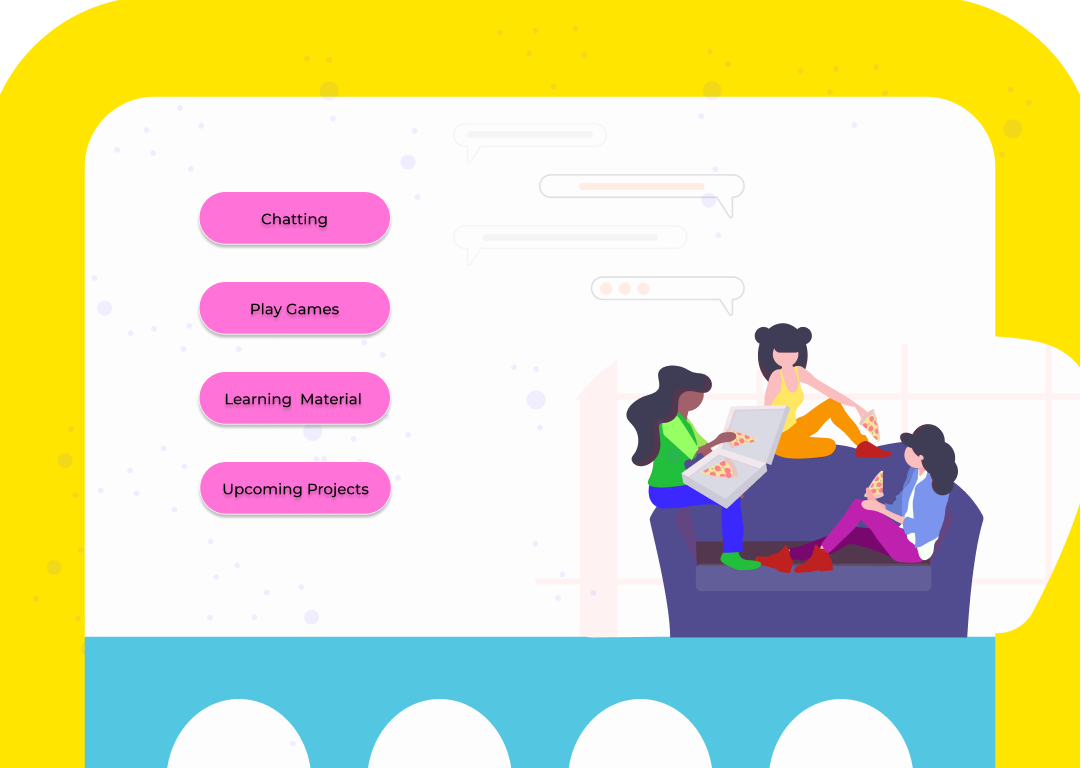
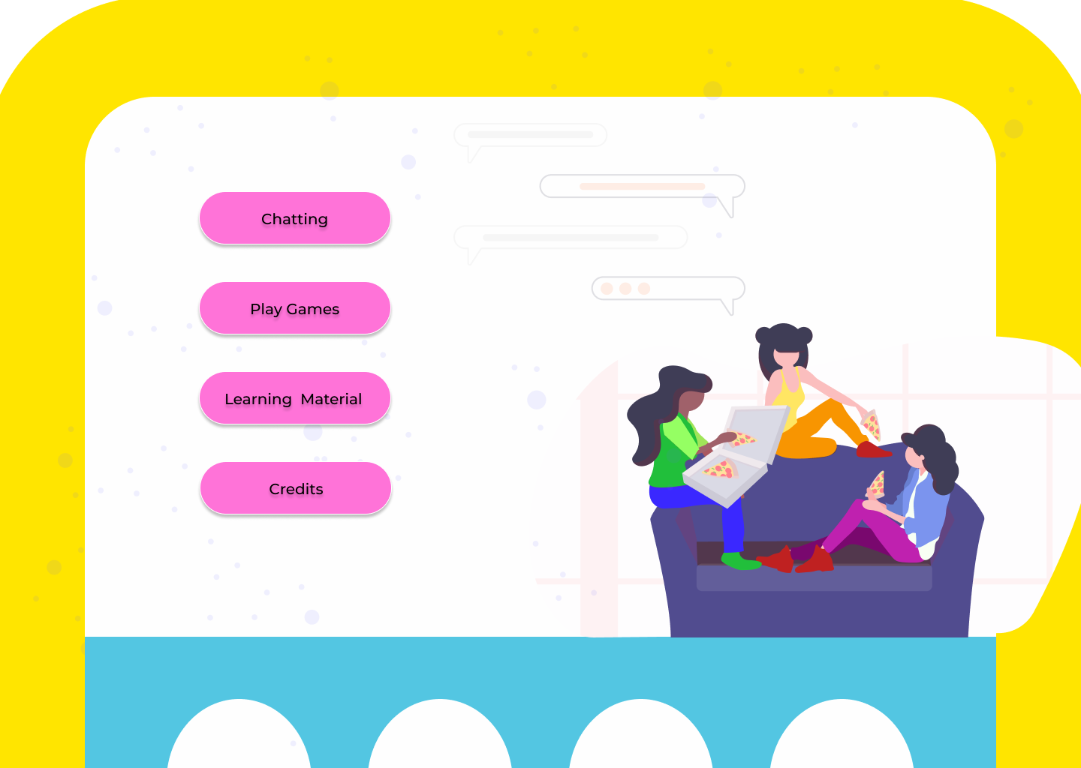
Credits in the clubhouse

diff --git a/student/index.js b/student/index.js
@@ -487,7 +487,7 @@ async function main() {
 
           add([
             text(
-                "In this demo you\ncan't buy items,\nyou already have\nall items in your\ninventory.",
+                "In this demo you\ncan't buy anything on the market.\nBut do not worry!\nYou already own\nevery item 2 times.",
                 48,
                 { width: Math.round((1440 - padding * 2) / scaleDown) },
             ),
@@ -518,8 +518,14 @@ async function main() {
 
   scene('club-house', () => {
     const rectangle = add([
-      rect(300 / scaleDown, 500 / scaleDown),
+      rect(300 / scaleDown, 375 / scaleDown),
       pos(Math.round(230 / scaleDown), Math.round(200 / scaleDown)),
+      color(0, 0, 0),
+      origin('topleft'),
+    ]);
+    const rectangle2 = add([
+      rect(300 / scaleDown, 125 / scaleDown),
+      pos(Math.round(230 / scaleDown), Math.round(575 / scaleDown)),
       color(0, 0, 0),
       origin('topleft'),
     ]);
@@ -550,6 +556,7 @@ async function main() {
     });
 
     var stateMessage = true;
+    var stateMessage2 = true;
     rectangle.action(() => {
       // console.log(board.pos)
       // console.log('Testtt');
@@ -569,7 +576,7 @@ async function main() {
           const padding = 100;
 
           add([
-            text('In this demo the\nclub house is not\nfinished.', 48, {
+            text('This function is\nlocked in this\ndemo.', 48, {
               width: Math.round((1440 - padding * 2) / scaleDown),
             }),
             pos(Math.round(150 / scaleDown), Math.round(300 / scaleDown)),
@@ -586,14 +593,55 @@ async function main() {
         }
       }
       mouseClick(() => {
-        if (!stateMessage) {
+        if (!stateMessage && stateMessage2) {
           //stateMessage = true;
           destroyAll('message');
           wait(0.1, () => {
             stateMessage = true;
           });
         }
+        if (!stateMessage2 && stateMessage) {
+          //stateMessage = true;
+          destroyAll('message2');
+          wait(0.1, () => {
+            stateMessage2 = true;
+          });
+        }
       });
+
+      if (rectangle2.isClicked()) {
+        if (stateMessage2) {
+          const message2 = add([
+            rect(1440 / scaleDown, 1024 / scaleDown),
+            pos(0 / scaleDown, 0 / scaleDown),
+            color(rgba(0, 0, 0, 0.8)),
+            origin('topleft'),
+            'message2',
+            // scale(1),
+          ]);
+
+          const padding = 100;
+
+          add([
+            text('Janusan Lingeswaran,\nProject Manager, Lead Developer\n\n' +
+                'Philipp Kant,\nDeveloper\n\n' +
+                'Radhhicka Kishorpouria,\nDesigner\n\n' +
+                'Mahamad Patol,\nDeveloper\n\n\n\nWe hope you like the demo. :-)', 16, {
+              width: Math.round((1440 - padding * 2) / scaleDown),
+            }),
+            pos(Math.round(150 / scaleDown), Math.round(300 / scaleDown)),
+            origin('topleft'),
+            color(255, 255, 255),
+            origin('topleft'),
+            'message2',
+          ]);
+
+          stateMessage2 = false;
+        } else {
+          destroyAll('message2');
+          stateMessage2 = true;
+        }
+      }
       // if (mouseIsClicked()) {
       //   destroyAll('message');
       //   stateMessage = true;
